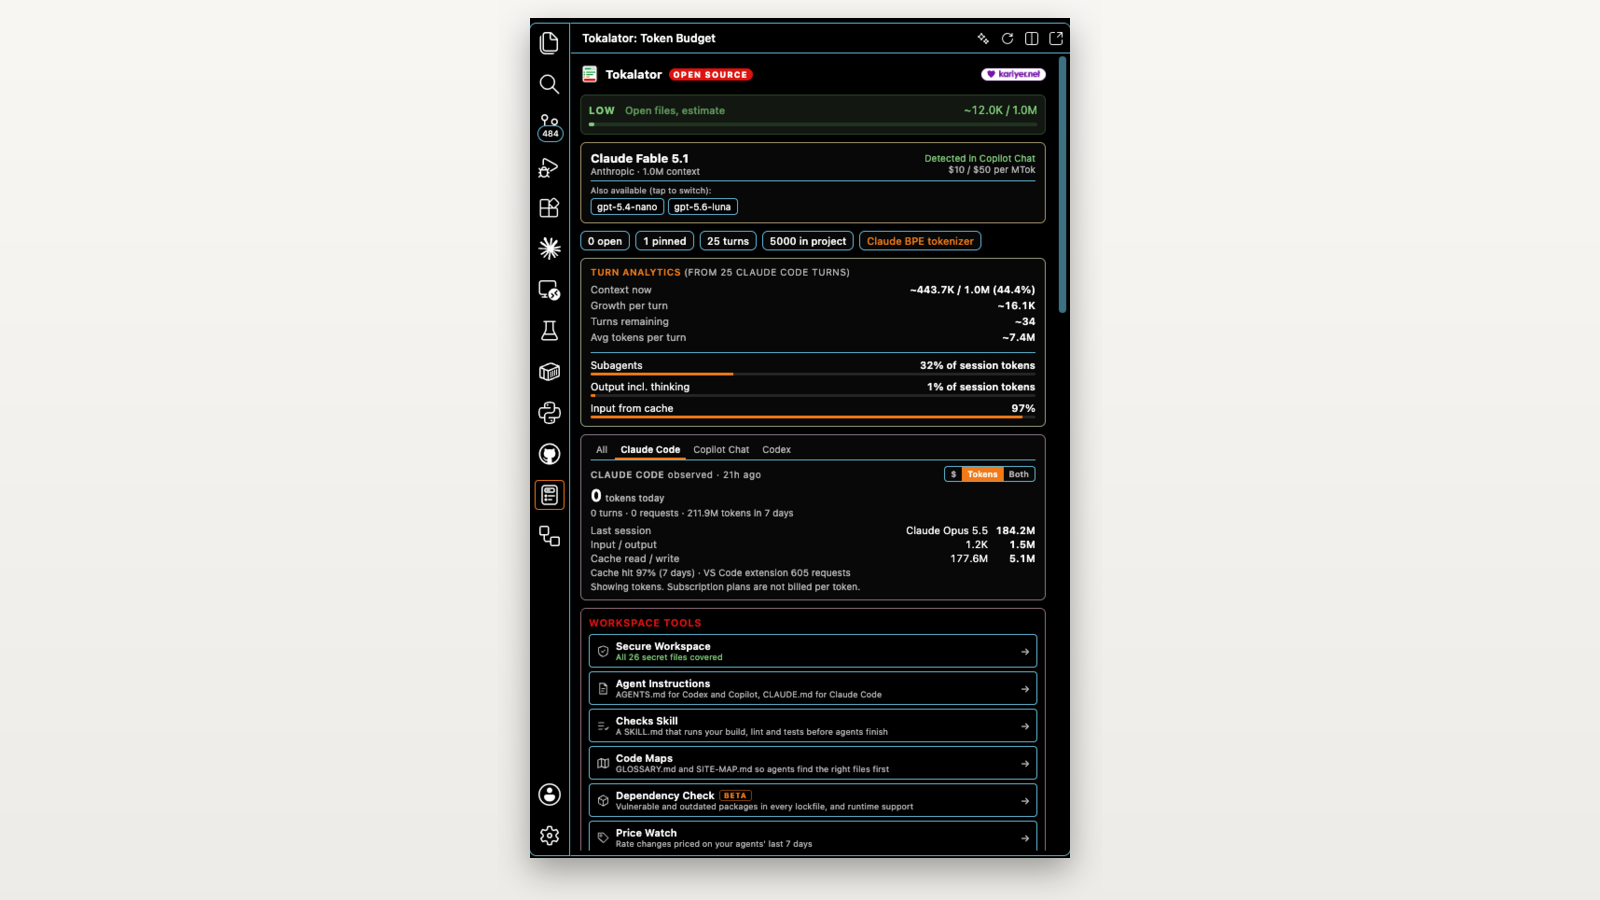
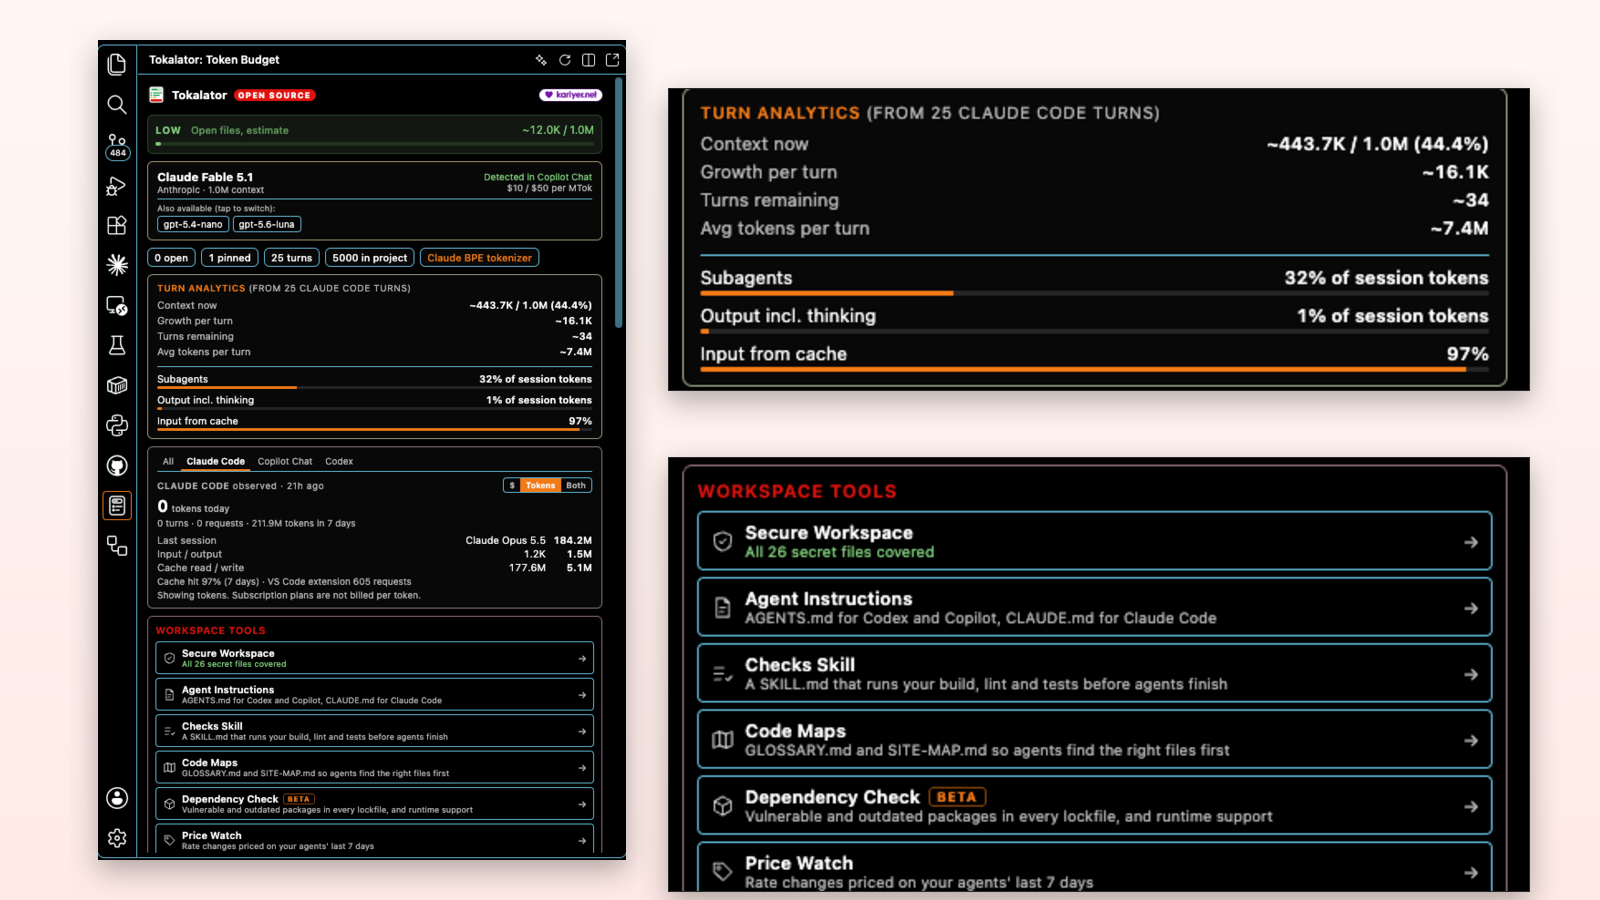
Make the Tokalator screenshot readable and drop the self-deprecating note
Recompose the Tokalator card image: the full VS Code panel on the left
with the turn analytics and workspace tools enlarged beside it, so the
card shows what the extension does instead of a thin strip in empty space.
Language line now reads "Japanese in progress", matching the About card.

Claude-Session: https://claude.ai/code/session_01B8gLePyNAj6bWap396SrEL

diff --git a/site/index.html b/site/index.html
@@ -2638,7 +2638,7 @@
                 <div class="facet">
                     <span class="facet-num">4</span>
                     <span class="facet-label">Languages spoken</span>
-                    <span class="facet-note">Turkish native, English C1, Spanish at instructor level, Portuguese basic. Japanese in progress, badly.</span>
+                    <span class="facet-note">Turkish native, English C1, Spanish at instructor level, Portuguese basic, Japanese in progress.</span>
                 </div>
                 <div class="facet">
                     <span class="facet-num">400+</span>
